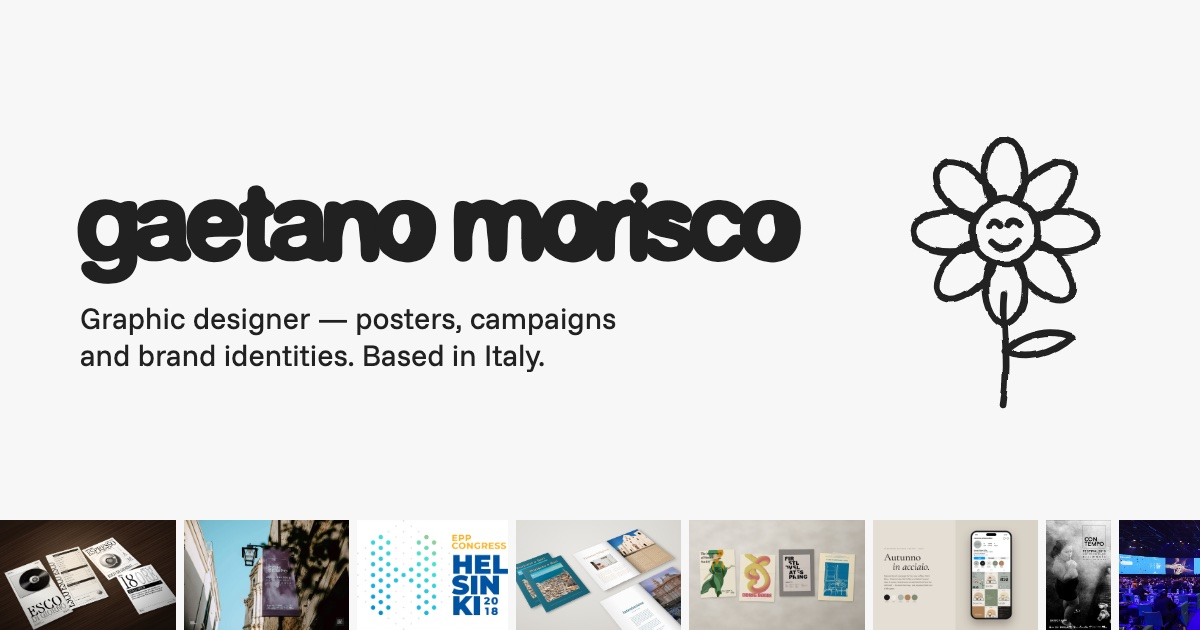
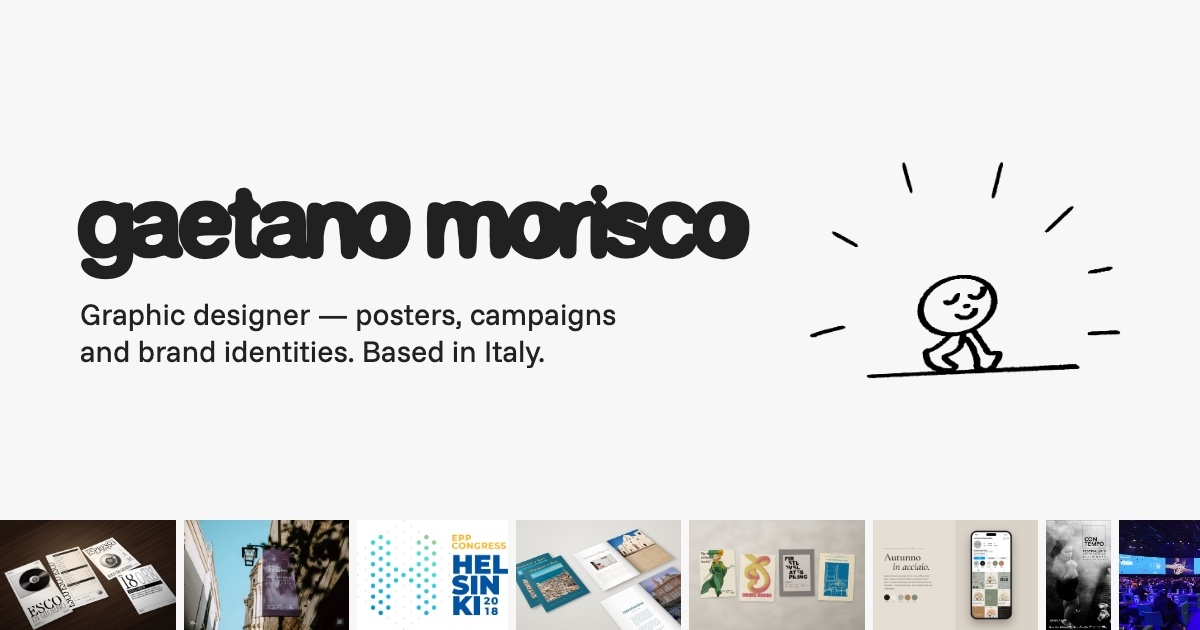
Hand-drawn doodles: walking character in the hero, coffee cup in the footer

diff --git a/index.html b/index.html
@@ -38,7 +38,7 @@
         <h1>gaetano morisco</h1>
         <p>I'm a <b>graphic designer</b> making posters, campaigns and brand identities, based in Italy.</p>
       </div>
-      <svg class="doodle" viewBox="0 0 240 300" aria-hidden="true"><defs><filter id="rough3" x="-10%" y="-10%" width="120%" height="120%"><feTurbulence type="fractalNoise" baseFrequency="0.035" numOctaves="2" seed="3"/><feDisplacementMap in="SourceGraphic" scale="6" xChannelSelector="R" yChannelSelector="G"/></filter></defs><g filter="url(#rough3)"><ellipse cx="120" cy="52" rx="21" ry="38" transform="rotate(0 120 110)"/><ellipse cx="120" cy="52" rx="21" ry="38" transform="rotate(45 120 110)"/><ellipse cx="120" cy="52" rx="21" ry="38" transform="rotate(90 120 110)"/><ellipse cx="120" cy="52" rx="21" ry="38" transform="rotate(135 120 110)"/><ellipse cx="120" cy="52" rx="21" ry="38" transform="rotate(180 120 110)"/><ellipse cx="120" cy="52" rx="21" ry="38" transform="rotate(225 120 110)"/><ellipse cx="120" cy="52" rx="21" ry="38" transform="rotate(270 120 110)"/><ellipse cx="120" cy="52" rx="21" ry="38" transform="rotate(315 120 110)"/><circle cx="120" cy="110" r="34" fill="#f7f7f6" style="fill:#f7f7f6"/><path d="M 104 104 q 6 -8 12 0 M 124 104 q 6 -8 12 0"/><path d="M 106 120 q 14 14 28 0"/><path d="M 120 176 C 116 210, 126 240, 118 292"/><path d="M 120 236 C 142 214, 172 212, 190 220 C 168 240, 142 244, 120 236"/></g></svg>
+      <img class="doodle doodle-img" src="images/doodle-2.png" alt="" width="800" height="571">
     </section>
 
     <div class="strip" aria-hidden="true"><div class="track"><a href="work/contempo.html" tabindex="-1"><img src="images/contempo-poster.jpg" alt="" loading="lazy"></a><a href="work/epp-congress.html" tabindex="-1"><img src="images/epp-logo.jpg" alt="" loading="lazy"></a><a href="work/posters.html" tabindex="-1"><img src="images/poster-going-down.jpg" alt="" loading="lazy"></a><a href="work/esco.html" tabindex="-1"><img src="images/esco-espresso.jpg" alt="" loading="lazy"></a><a href="work/veronero.html" tabindex="-1"><img src="images/veronero-launch.jpg" alt="" loading="lazy"></a><a href="work/turismo-a-bari.html" tabindex="-1"><img src="images/bari-cover.jpg" alt="" loading="lazy"></a><a href="work/contempo.html" tabindex="-1"><img src="images/contempo-billboard.jpg" alt="" loading="lazy"></a><a href="work/epp-congress.html" tabindex="-1"><img src="images/epp-lockups.jpg" alt="" loading="lazy"></a><a href="work/posters.html" tabindex="-1"><img src="images/poster-first-love.jpg" alt="" loading="lazy"></a><a href="work/esco.html" tabindex="-1"><img src="images/esco-coldbrew.jpg" alt="" loading="lazy"></a><a href="work/veronero.html" tabindex="-1"><img src="images/veronero-save.jpg" alt="" loading="lazy"></a><a href="work/turismo-a-bari.html" tabindex="-1"><img src="images/bari-strategies.jpg" alt="" loading="lazy"></a><a href="work/epp-congress.html" tabindex="-1"><img src="images/epp-icons.gif" alt="" loading="lazy"></a><a href="work/posters.html" tabindex="-1"><img src="images/poster-incongruity.jpg" alt="" loading="lazy"></a><a href="work/esco.html" tabindex="-1"><img src="images/esco-cornetto.jpg" alt="" loading="lazy"></a><a href="work/veronero.html" tabindex="-1"><img src="images/veronero-montblanc.jpg" alt="" loading="lazy"></a><a href="work/contempo.html" tabindex="-1"><img src="images/contempo-poster.jpg" alt="" loading="lazy"></a><a href="work/epp-congress.html" tabindex="-1"><img src="images/epp-logo.jpg" alt="" loading="lazy"></a><a href="work/posters.html" tabindex="-1"><img src="images/poster-going-down.jpg" alt="" loading="lazy"></a><a href="work/esco.html" tabindex="-1"><img src="images/esco-espresso.jpg" alt="" loading="lazy"></a><a href="work/veronero.html" tabindex="-1"><img src="images/veronero-launch.jpg" alt="" loading="lazy"></a><a href="work/turismo-a-bari.html" tabindex="-1"><img src="images/bari-cover.jpg" alt="" loading="lazy"></a><a href="work/contempo.html" tabindex="-1"><img src="images/contempo-billboard.jpg" alt="" loading="lazy"></a><a href="work/epp-congress.html" tabindex="-1"><img src="images/epp-lockups.jpg" alt="" loading="lazy"></a><a href="work/posters.html" tabindex="-1"><img src="images/poster-first-love.jpg" alt="" loading="lazy"></a><a href="work/esco.html" tabindex="-1"><img src="images/esco-coldbrew.jpg" alt="" loading="lazy"></a><a href="work/veronero.html" tabindex="-1"><img src="images/veronero-save.jpg" alt="" loading="lazy"></a><a href="work/turismo-a-bari.html" tabindex="-1"><img src="images/bari-strategies.jpg" alt="" loading="lazy"></a><a href="work/epp-congress.html" tabindex="-1"><img src="images/epp-icons.gif" alt="" loading="lazy"></a><a href="work/posters.html" tabindex="-1"><img src="images/poster-incongruity.jpg" alt="" loading="lazy"></a><a href="work/esco.html" tabindex="-1"><img src="images/esco-cornetto.jpg" alt="" loading="lazy"></a><a href="work/veronero.html" tabindex="-1"><img src="images/veronero-montblanc.jpg" alt="" loading="lazy"></a></div></div>
@@ -117,7 +117,7 @@
           <a class="btn" href="https://www.linkedin.com/in/gaetanomorisco/" target="_blank" rel="noopener">LinkedIn</a>
         </div>
       </div>
-      <svg class="doodle" viewBox="0 0 220 220" aria-hidden="true"><defs><filter id="rough8" x="-10%" y="-10%" width="120%" height="120%"><feTurbulence type="fractalNoise" baseFrequency="0.035" numOctaves="2" seed="8"/><feDisplacementMap in="SourceGraphic" scale="6" xChannelSelector="R" yChannelSelector="G"/></filter></defs><g filter="url(#rough8)"><path d="M 50 92 L 60 168 C 62 182, 140 182, 142 168 L 152 92 Z"/><path d="M 150 108 C 186 104, 186 150, 146 148"/><ellipse cx="102" cy="184" rx="78" ry="14"/><path d="M 78 72 C 66 56, 90 46, 78 26 M 104 72 C 92 54, 116 44, 104 20 M 130 72 C 118 56, 142 46, 130 28"/></g></svg>
+      <img class="doodle doodle-end" src="images/doodle-cup.png" alt="" loading="lazy">
     </div>
     <p class="legal">© 2026 Gaetano Morisco</p>
   </footer>

diff --git a/style.css b/style.css
@@ -194,3 +194,8 @@ img, video { display: block; }
   .name { font-size: 15px; }
   .topbar nav { font-size: 14px; gap: 9px; }
 }
+
+/* hand-drawn doodle (drawn by Gaetano) */
+.doodle-img { width: clamp(220px, 27vw, 400px); height: auto; }
+.doodle-end { width: clamp(130px, 13vw, 190px); height: auto; }
+@media (max-width: 760px) { .hero .doodle-img { width: 220px; } .contact .doodle-end { display: none; } }
